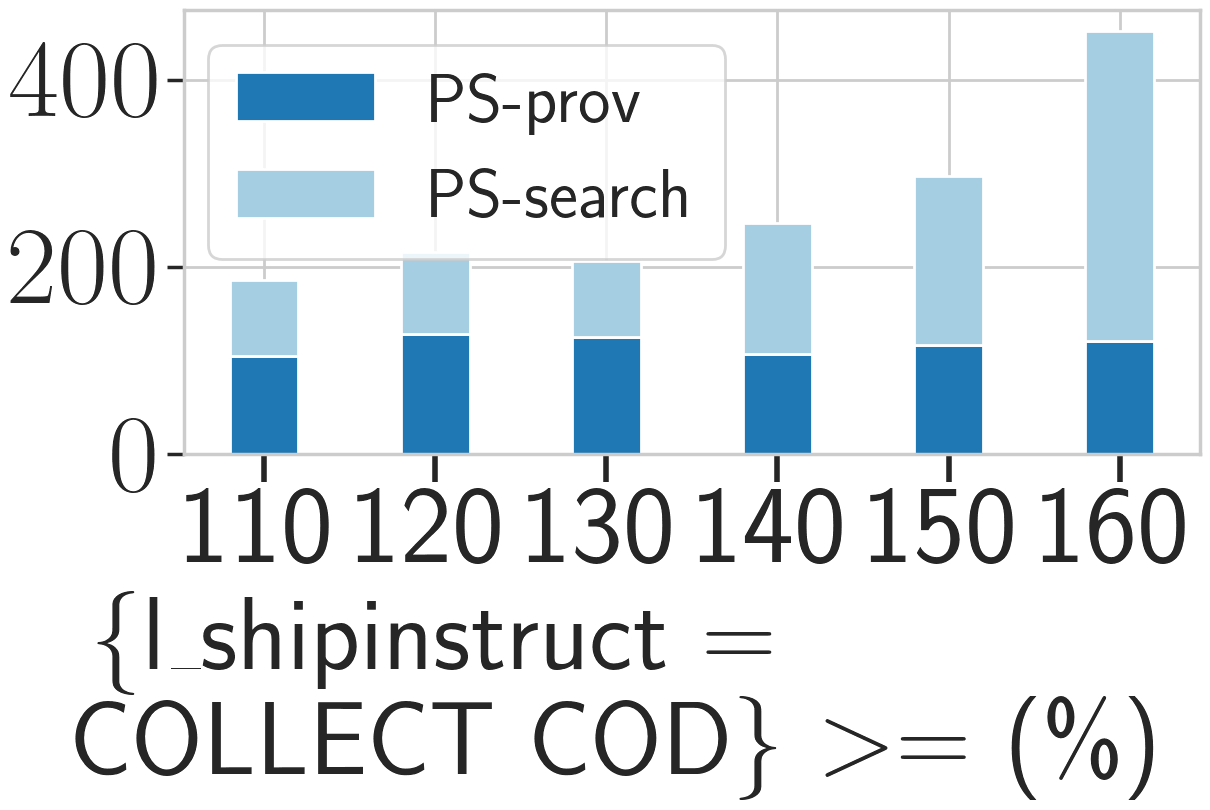
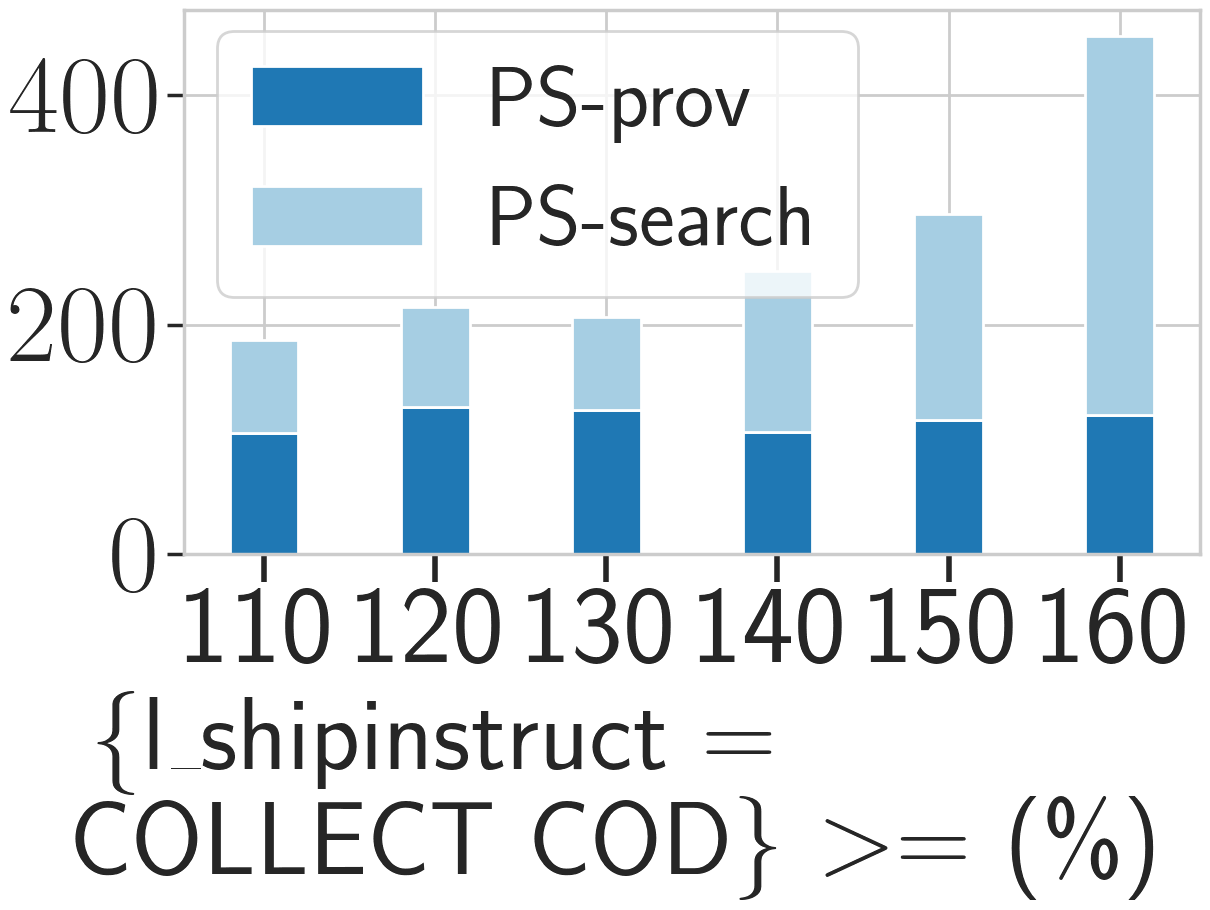
fig

diff --git a/Experiment/TPCH/10G/constraint_change/q12_relax/fig.py b/Experiment/TPCH/10G/constraint_change/q12_relax/fig.py
@@ -21,7 +21,7 @@ label = ['PS-prov', "PS-search", "BL-prov", "BL-search"]
 plt.rc('text', usetex=True)
 plt.rc('font', size=70, weight='bold')
 
-f_size = (14, 10)
+f_size = (14, 11)
 
 x_list = list()
 x_naive = list()
@@ -84,7 +84,7 @@ def run(query, size, constraint):
     plt.yticks(fontsize=80, weight='bold')
 
     plt.xlabel(r'\{l_shipinstruct = \\COLLECT COD\} $>=$ (\%)', fontsize=75).set_position((0.43, -0.1))
-    plt.legend(loc="upper left", bbox_to_anchor=(-0.01, 1.0), fontsize=50)
+    plt.legend(loc="upper left", bbox_to_anchor=(-0.01, 1.04), fontsize=62)
     plt.tight_layout()
     fig_path = "constraint_change_q" + str(query) + "_" + size + "_" + constraint + ".png"
 

diff --git a/Experiment/TPCH/10G/constraint_change/q3_refine/fig.py b/Experiment/TPCH/10G/constraint_change/q3_refine/fig.py
@@ -57,12 +57,12 @@ def run(query, size, constraint):
         else:
             execution_timebl1.append(0)
             execution_timebl2.append(0)
-    x_list = [110, 120, 130, 140, 150, 160]
+    x_list = [102, 104, 106, 108, 110, 112]
 
     print(x_list, execution_timeps1, execution_timeps2)
 
     index = np.arange(len(execution_timeps1))
-    bar_width = 0.4
+    bar_width = 0.45
 
     fig, ax = plt.subplots(1, 1, figsize=f_size)
 
